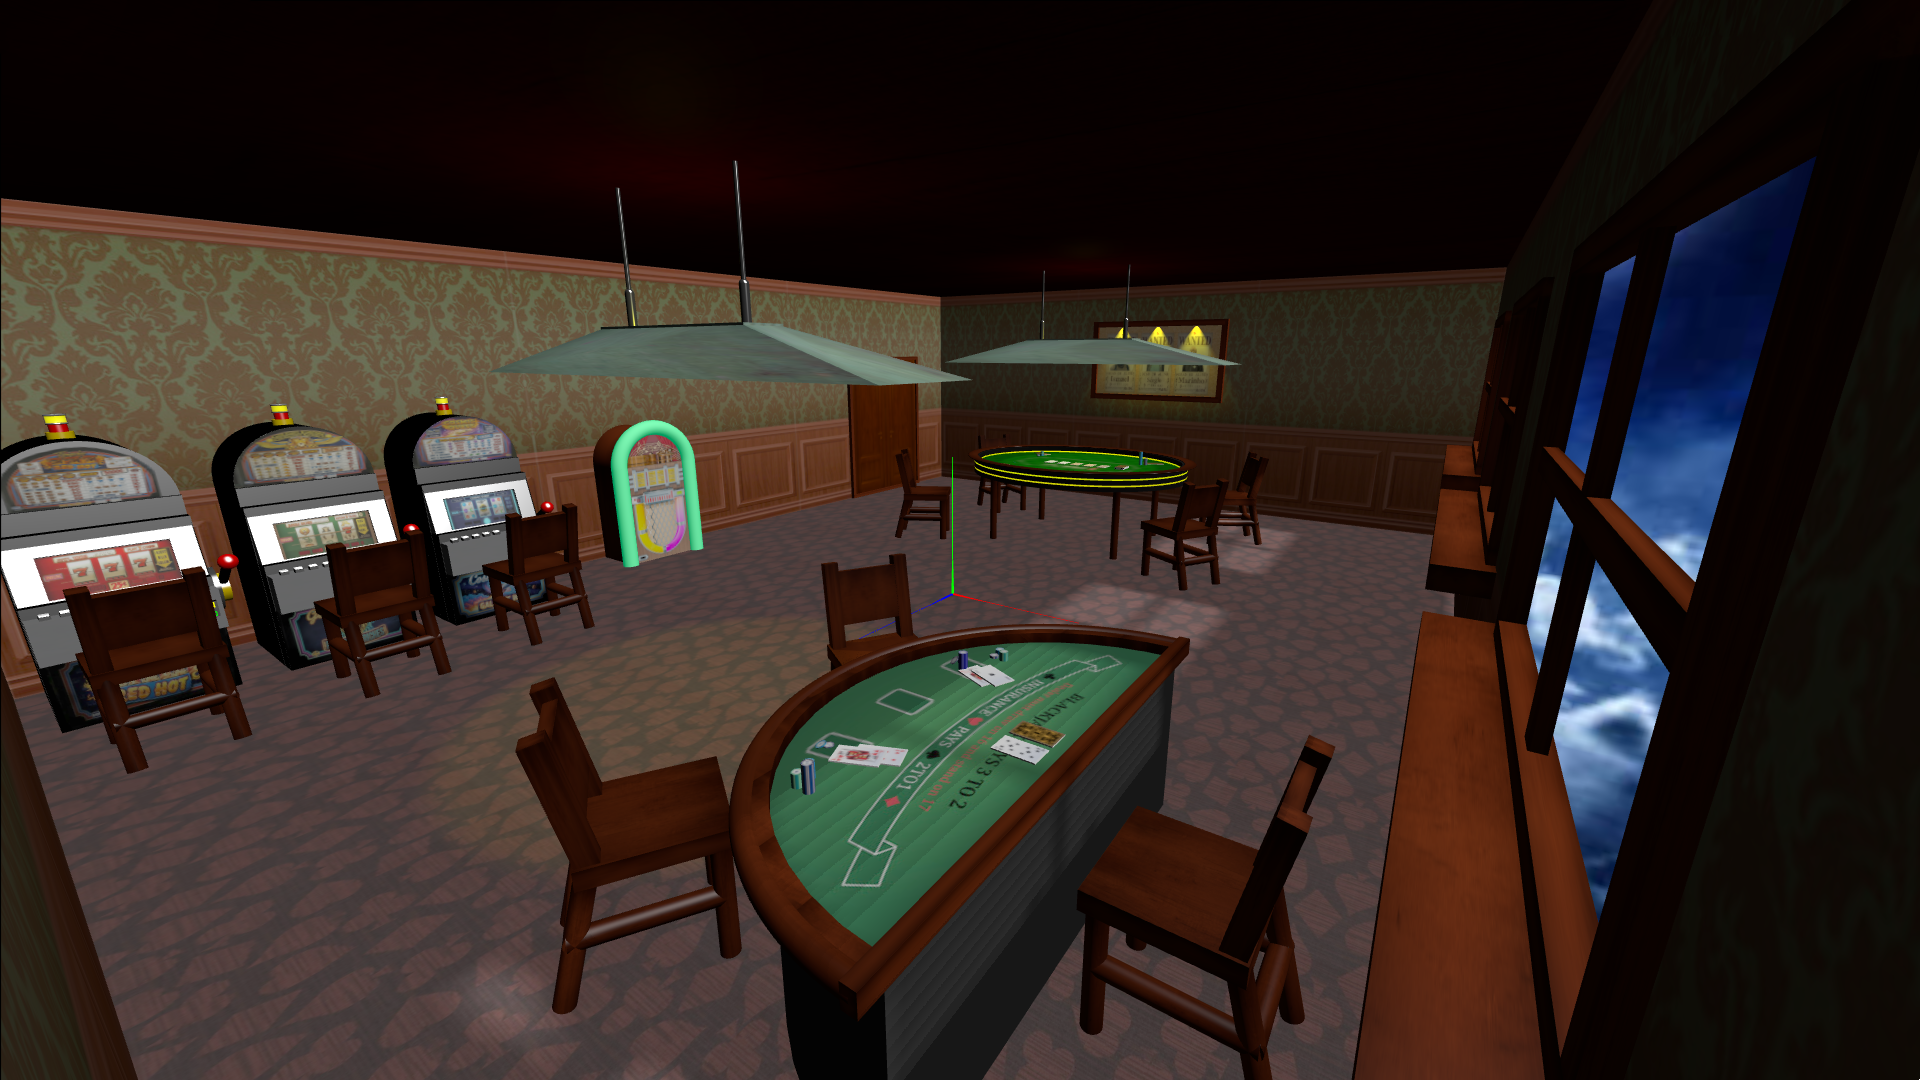
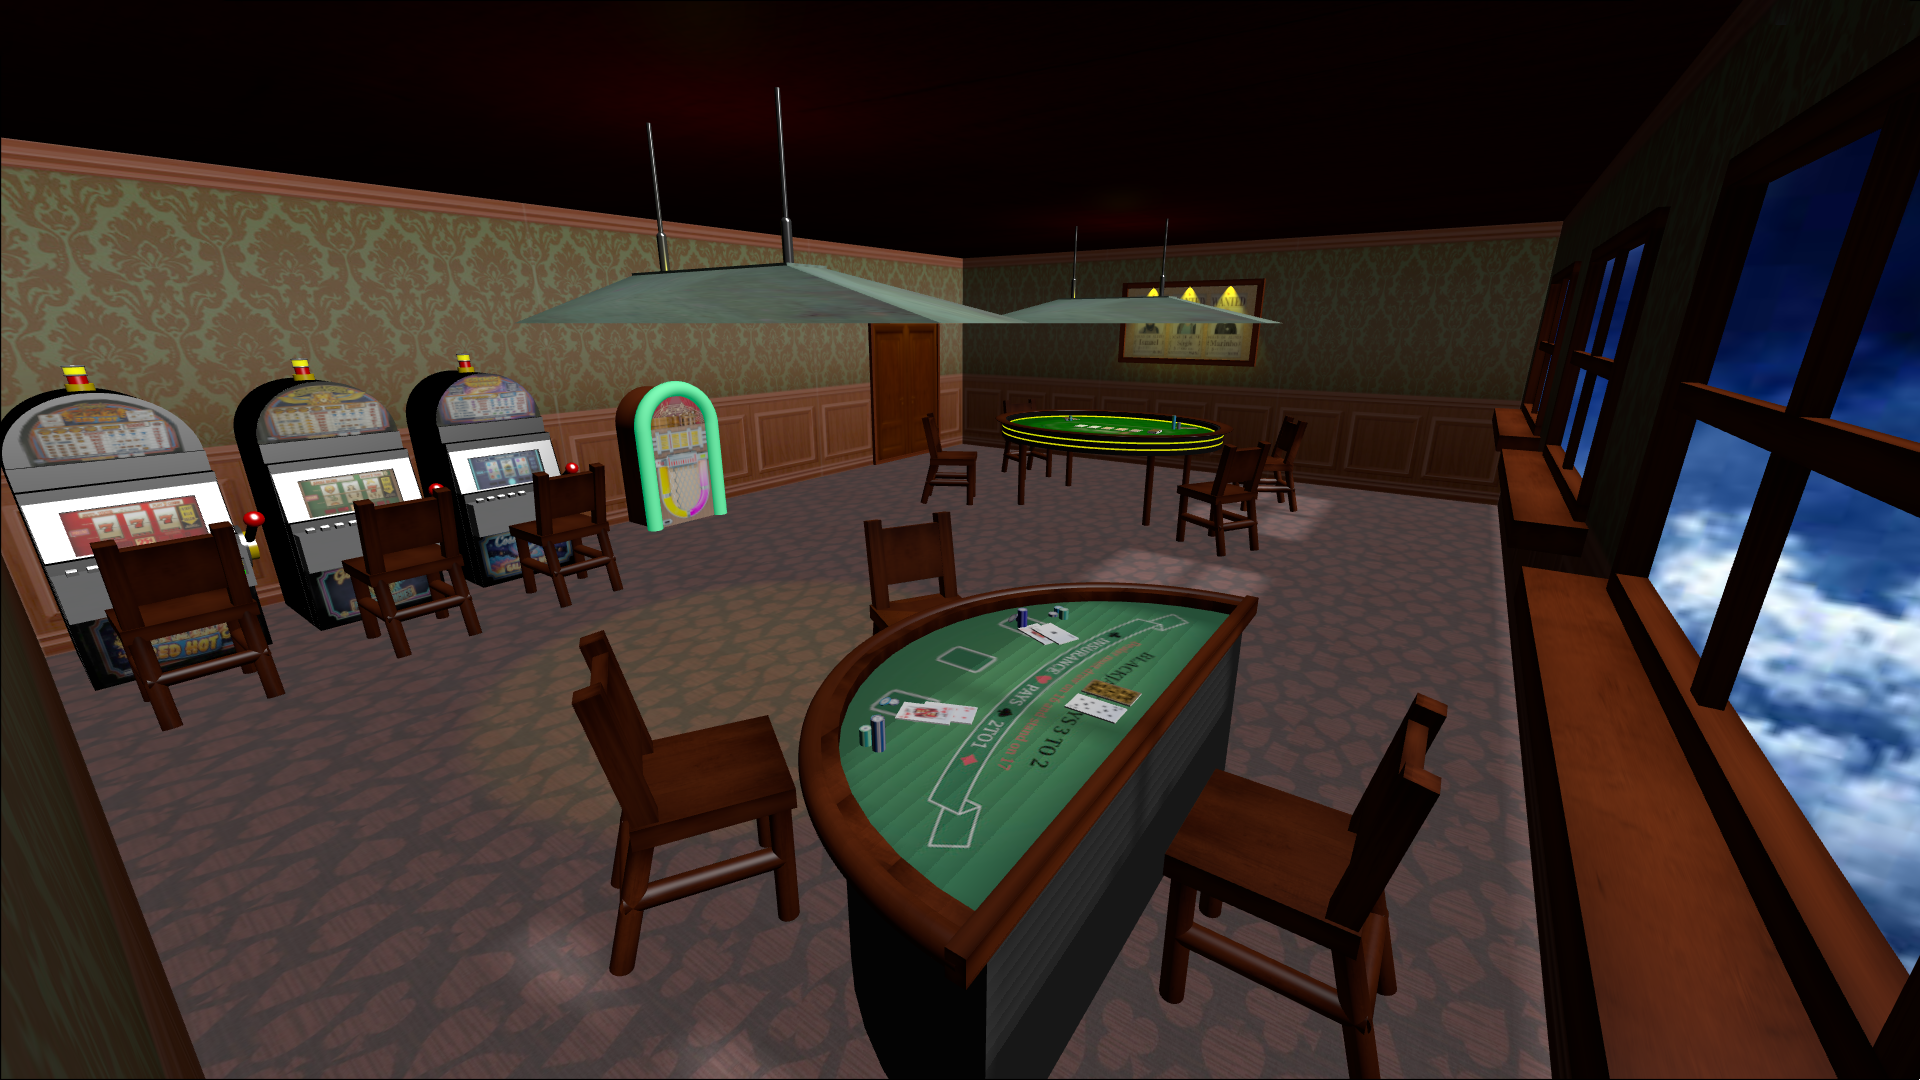
added more documentation

diff --git a/pw1/MyGuiInterface.js b/pw1/MyGuiInterface.js
@@ -73,6 +73,12 @@ class MyGuiInterface {
         // adds a folder to the gui interface for the camera
 */
         // const objectFolder = this.datgui.addFolder('Objects');
+       const axisFolder = this.datgui.addFolder('Axis');
+        axisFolder.add(this.contents, 'showAxis').name('Show Axis').onChange((value) => {
+            this.contents.enableAxis(value);
+         });
+
+
         const lightFolder = this.datgui.addFolder('Lights');
 		lightFolder.add(this.contents, 'lamp1Power', 0, 100).name("Light1 Power").onChange((value) => { this.contents.updateLamp1Power(value); });
 		lightFolder.add(this.contents, 'lamp1Power', 0, 100).name("Light2 Power").onChange((value) => { this.contents.updateLamp2Power(value); });

diff --git a/pw1/MyContents.js b/pw1/MyContents.js
@@ -31,6 +31,7 @@ class MyContents {
 
         const roomDimensions = this.room.getRoomDimensions();
         this.axis = new MyAxis(this);
+        this.showAxis = true;
         this.pokerTable = new PokerTable(0, 0, -roomDimensions.depth / 4, -Math.PI / 2);
 
         this.pokerChair1 = new CowboyChair(0,0,0);
@@ -888,6 +889,10 @@ class MyContents {
         this.initLights();
         this.initObjects();
         this.initPanorama();
+    }
+
+    enableAxis(value){
+        this.axis.visible = value;
     }
 
 

diff --git a/pw1/README.md b/pw1/README.md
@@ -33,24 +33,134 @@ Our project aims to develop a **THREE.js** scene inspired by a **vintage casino 
 
 ## Topics
 
-- [Requirements](#requirements)
-    - [Floor and Walls](#floor-and-walls)
-    - [Table](#table)
-    - [Plates](#plates)
-    - [Cake](#cake)
-    - [Candle](#candle)
-    - [Paintings, Window, and Door](#paintings-window-and-door)
-    - [Bettle's Painting](#bettle-painting)
-    - [Spotlight](#spolight)
-    - [Spring](#spring)
-    - [Newspaper](#newspaper)
-    - [Dog](#dog)
-    - [Cartoon Fire](#cartoon-fire)
-    - [Jar](#jar)
-    - [Flower](#flower)
-    - [Shadows](#shadows)
+- [SGI 2025/2026 - PW1](#sgi-20252026---pw1)
+  - [Group T06G04](#group-t06g04)
+  - [Tutorial](#tutorial)
+  - [Project Overview](#project-overview)
+  - [Topics](#topics)
+    - [Requirements](#requirements)
+      - [BlackJack Table](#blackjack-table)
+      - [Chair](#chair)
+      - [Door](#door)
+      - [Floor and Walls](#floor-and-walls)
+      - [JukeBox](#jukebox)
+      - [Lamp](#lamp)
+      - [Panorama and Windows](#panorama-and-windows)
+      - [Poker Table](#poker-table)
+      - [Shadows](#shadows)
+      - [SlotMachine](#slotmachine)
+
+---
 
 ### Requirements
 
+#### BlackJack Table
 
-![alt text](image.png)
+A classic blackjack table featuring a curved design with a green felt surface and a wooden border.
+
+<p align="center">
+    <img src="./assets/blackjack_table.png">
+    <p align="center">Figure 2: BlackJack Table</p>
+</p>
+
+---
+
+#### Chair
+
+A simple casino wooden chair. It’s positioned near tables and slot machines for player comfort.
+
+<p align="center">
+    <img src="./assets/chair.png">
+    <p align="center">Figure 3: Chair</p>
+</p>
+
+---
+
+#### Door
+
+A vintage wooden door with decorative details, serving as the main entrance to the casino.
+
+<p align="center">
+    <img src="./assets/door.png">
+    <p align="center">Figure 4: Door</p>
+</p>
+
+---
+
+#### Floor and Walls
+
+The casino’s floor and walls are designed with textures that enhance the vintage atmosphere — a patterned carpet for the floor and wooden textures with patterns for the walls.
+
+<p align="center">
+    <img src="./assets/floor_walls.png">
+    <p align="center">Figure 5: Floor and Walls</p>
+</p>
+
+---
+
+#### JukeBox
+
+A retro-style jukebox with colorful lights and metallic details, adding to the nostalgic ambiance of the casino.
+
+<p align="center">
+    <img src="./assets/jukebox.png">
+    <p align="center">Figure 6: JukeBox</p>
+</p>
+
+---
+
+#### Lamp
+
+A hanging ceiling lamp casting warm light over nearby tables, contributing to the overall cozy environment.
+
+<p align="center">
+    <img src="./assets/lamp.png">
+    <p align="center">Figure 7: Lamp</p>
+</p>
+
+---
+
+#### Panorama and Windows
+
+A panoramic background image that surrounds the scene, that can be seen through the windows.
+
+<p align="center">
+    <img src="./assets/panorama-windows.png">
+    <p align="center">Figure 8: Panorama and Windows</p>
+</p>
+
+---
+
+#### Poker Table
+
+A round table covered in green felt, surrounded by chairs and equipped with chips and cards, representing a classic poker setup.
+
+<p align="center">
+    <img src="./assets/poker_table.png">
+    <p align="center">Figure 9: Poker Table</p>
+</p>
+
+---
+
+#### Shadows
+
+Shadows are enabled for key objects in the scene to enhance depth and realism, particularly under tables and chairs.
+
+<p align="center">
+    <img src="./assets/shadows.png">
+    <p align="center">Figure 10: Shadows</p>
+</p>
+
+---
+
+#### SlotMachine
+
+A vintage slot machine with animated reels, lever, and flashing lights, placed strategically near the walls.
+
+<p align="center">
+    <img src="./assets/slot_machine.png">
+    <p align="center">Figure 11: SlotMachine</p>
+</p>
+
+---
+
